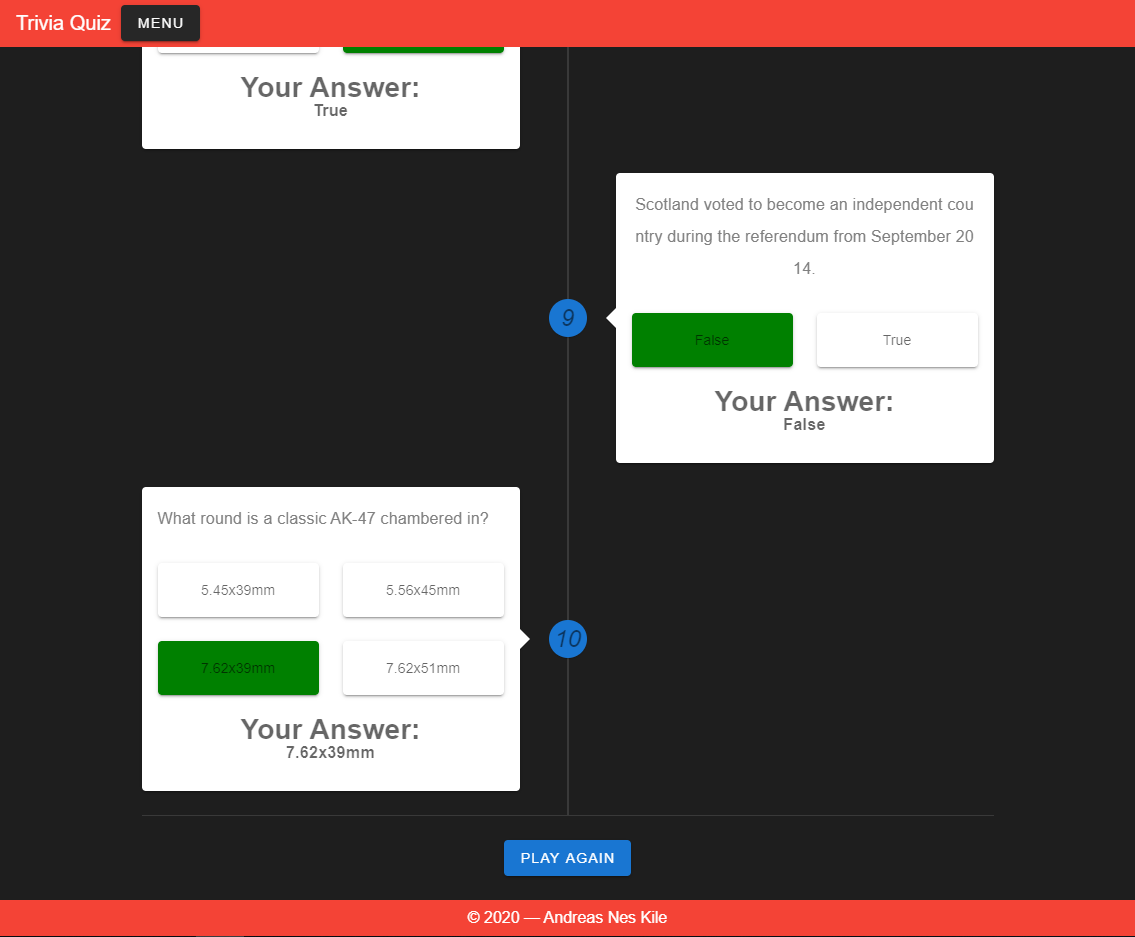
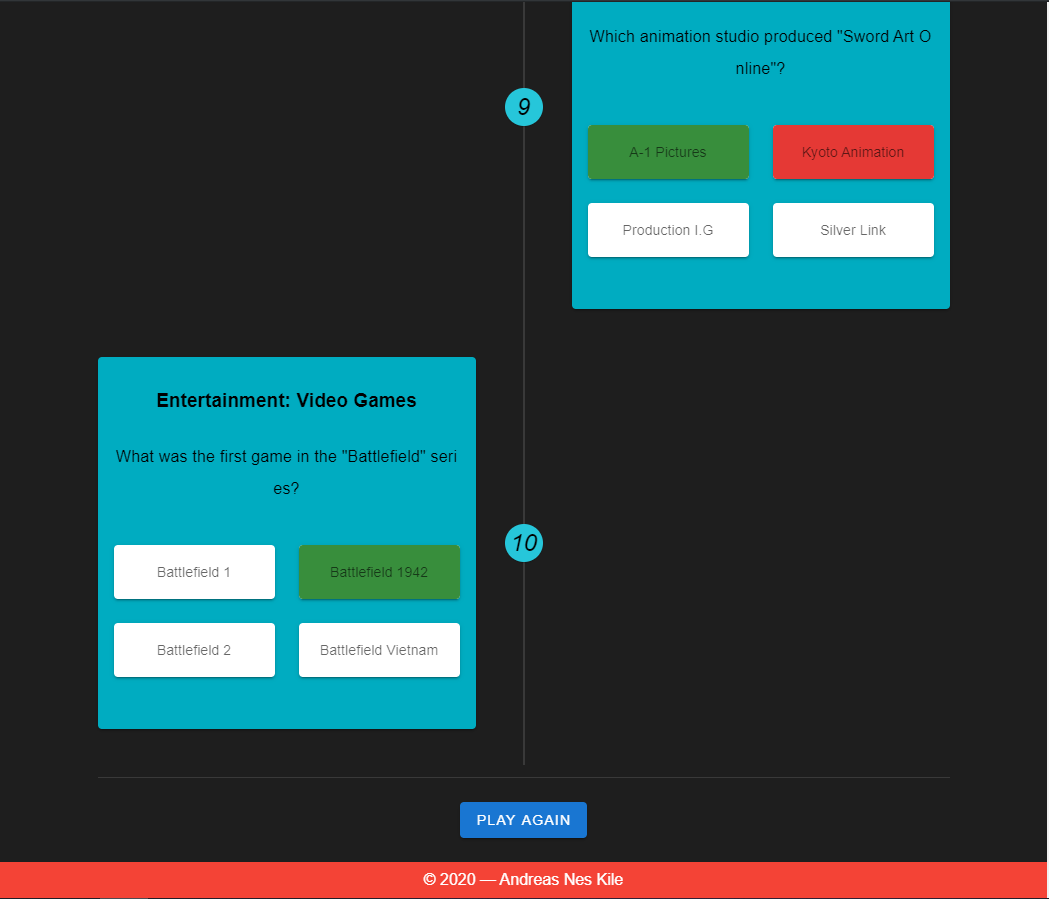
Bug fix, CSS and READ.me changes

diff --git a/src/components/QuizResults.vue b/src/components/QuizResults.vue
@@ -1,39 +1,75 @@
 <template>
-  <v-timeline dark>
-    <v-timeline-item
-      light
-      v-for="(currentQuestion, index) in setAnsweredQuestions"
-      :key="index"
-      fill-dot
-      :icon="(index + 1).toString()"
-    >
-      <v-card class="elevation-2" style="color: grey">
-        <v-card-title style="font-size: 1em" v-html="currentQuestion.question"></v-card-title>
-        <v-card-text>
-          <v-row v-if="currentQuestion.options">
-            <v-col
-              v-for="(option, optionIndex) in currentQuestion.options"
-              :key="optionIndex"
-              xl="6"
-              md="6"
-              l="6"
-              sm="12"
-              xs="12"
-            >
-              <v-card>
-                <v-card-text :class="setCardClass(option, index, optionIndex)" v-html="option"></v-card-text>
+  <v-row>
+    <v-col xl="2" lg="2" md="2" class="hidden-md-and-down"></v-col>
+    <v-col>
+      <v-timeline dark>
+        <v-timeline-item
+          light
+          v-for="(currentQuestion, index) in setAnsweredQuestions"
+          :key="index"
+          fill-dot
+          color="cyan lighten-1"
+          :icon="(index + 1).toString()"
+          icon-color="black"
+          class="result-question-number"
+        >
+          <v-row>
+            <v-col xl="12">
+              <v-card class="elevation-2" color="cyan darken-1" style="color: black">
+                <v-card-title style="font-size: 1em" justify="center">
+                  <v-row>
+                    <v-col>
+                      <h3 v-html="currentQuestion.category"></h3>
+                    </v-col>
+                  </v-row>
+                  <v-row>
+                    <v-col>
+                      <span v-html="currentQuestion.question"></span>
+                    </v-col>
+                  </v-row>
+                </v-card-title>
+                <v-card-text>
+                  <v-row v-if="currentQuestion.options">
+                    <v-col
+                      v-for="(option, optionIndex) in currentQuestion.options"
+                      :key="optionIndex"
+                      xl="6"
+                      md="6"
+                      l="6"
+                      sm="12"
+                      xs="12"
+                    >
+                      <v-card>
+                        <v-card-text
+                          :class="setCardClass(option, currentQuestion, index, optionIndex)"
+                          v-html="option"
+                        ></v-card-text>
+                      </v-card>
+                    </v-col>
+
+                    <!-- Filler -->
+                    <v-col></v-col>
+
+                    <v-col xl="4" lg="7" md="10" justify="center">
+                      <v-alert
+                        v-if="!currentQuestion.didAnswer"
+                        dense
+                        type="warning"
+                      >No answer were given</v-alert>
+                    </v-col>
+
+                    <!-- Filler -->
+                    <v-col></v-col>
+                  </v-row>
+                </v-card-text>
               </v-card>
             </v-col>
-            <v-col>
-              <h1>Your Answer:</h1>
-              <h3 v-html="currentQuestion.selectedAnswer" v-if="currentQuestion.didAnswer"></h3>
-              <h3 v-else>No answer were given</h3>
-            </v-col>
           </v-row>
-        </v-card-text>
-      </v-card>
-    </v-timeline-item>
-  </v-timeline>
+        </v-timeline-item>
+      </v-timeline>
+    </v-col>
+    <v-col xl="2" lg="2" class="hidden-md-and-down"></v-col>
+  </v-row>
 </template>
 
 <script>
@@ -50,21 +86,38 @@ export default {
   },
 
   methods: {
-    setCardClass: function(option, index) {
-      if (option == this.setAnsweredQuestions[index].correctAnswer) {
-        return "card-option";
-      }
+    setCardClass: function(option, currentQuestion, index) {
+      if (option == this.setAnsweredQuestions[index].correctAnswer)
+        return "card-option-correct";
+      if (
+        option != currentQuestion.correctAnswer &&
+        option == currentQuestion.selectedAnswer
+      )
+        return "card-option-wrong";
+
+      // if (
+      //   option.selectedAnswer != this.setAnsweredQuestions[index].correctAnswer
+      // ) {
+      //   return "card-option-wrong";
+      // }
+
+      // if (option.selectedAnswer == option.correctAnswer)
+      //   return "card-option-correct";
     }
   }
 };
 </script>
 
 <style scoped>
-.card-option {
-  background-color: green;
+.card-option-correct {
+  background-color: #388e3c;
 }
 
-.v-icon {
+.card-option-wrong {
+  background-color: #e53935;
+}
+
+.result-question-number {
   color: white;
 }
 </style>

diff --git a/src/components/GameMenu.vue b/src/components/GameMenu.vue
@@ -1,7 +1,8 @@
 <template>
   <v-container class="fill-height" fluid>
     <v-row align="center" justify="center" no-gutters>
-      <v-card class="start-game-card" raised width="80%">
+      <v-card class="start-game-card" raised>
+        <v-alert v-show="invalidNumberOfQuestionsAlertText" color="red">Please pick a valid number!</v-alert>
         <v-card-title class="title justify-center">You want to play a game?</v-card-title>
         <v-card-text>
           <br />
@@ -37,21 +38,29 @@ export default {
   name: "game-menu",
   data() {
     return {
-      numberOfQuestions: 10
+      numberOfQuestions: 10,
+      invalidNumberOfQuestionsAlertText: ""
     };
   },
 
   computed: {
     setNumberOfQuestions: function() {
       return this.numberOfQuestions;
+    },
+    numberOfQuestionsIsValid: function() {
+      return this.numberOfQuestions > 9 && this.numberOfQuestions < 20;
     }
   },
   methods: {
     startQuiz() {
-      this.$router.push({
-        name: "quiz",
-        params: { numberOfQuestions: this.setNumberOfQuestions }
-      });
+      if (this.numberOfQuestionsIsValid) {
+        this.$router.push({
+          name: "quiz",
+          params: { numberOfQuestions: this.setNumberOfQuestions }
+        });
+      } else {
+        this.invalidNumberOfQuestionsAlertText = "Please choose a valid number";
+      }
     }
   }
 };

diff --git a/src/components/QuizQuestion.vue b/src/components/QuizQuestion.vue
@@ -1,7 +1,7 @@
 <template>
   <v-card>
     <v-row>
-      <v-col lg="12">
+      <v-col>
         <h4 v-html="question.category"></h4>
       </v-col>
     </v-row>
@@ -16,7 +16,6 @@
       <v-row>
         <v-col v-for="(answer,index) in answers" :key="index" xl="6" md="6" l="6" sm="12" xs="12">
           <v-card
-            :disabled="!isActive"
             class="quiz-card-container elevation-5 answer-card"
             :id="'answer-option-' + question"
             @click="sendAnswer($event)"
@@ -42,16 +41,15 @@ export default {
       answers: [],
       selectedAnswer: "",
       answerFromUser: {},
-      correctAnswer: "",
-      isActive: true
+      correctAnswer: ""
     };
   },
 
   methods: {
     sendAnswer(event) {
-      this.isActive = false;
       this.answerFromUser = {
         question: this.question.question,
+        category: this.question.category,
         options: this.answers,
         selectedAnswer: event.target.innerText,
         correctAnswer: this.correctAnswer,
@@ -80,7 +78,6 @@ export default {
       ];
       this.answers.sort();
       this.correctAnswer = this.$props.question.correct_answer;
-      this.isActive = true;
     }
   }
 };

diff --git a/src/components/GamePlay.vue b/src/components/GamePlay.vue
@@ -1,4 +1,4 @@
-<template>
+<template v-if="isReady">
   <v-container class="fill height" v-if="questions.length > 0">
     <v-progress-linear striped stream height="40px" :value="countDown * 10"></v-progress-linear>
     <quiz-question v-on:answer="updateGamePlay" :question="questions[currentQuestionIndex]" />
@@ -23,7 +23,8 @@ export default {
       currentQuestionIndex: 0,
       score: 0,
       countDown: 10,
-      answeredQuestions: []
+      answeredQuestions: [],
+      isReady: false
     };
   },
 
@@ -50,6 +51,7 @@ export default {
       if (!this.answeredQuestions[this.currentQuestionIndex]) {
         this.answeredQuestions.push({
           question: this.questions[this.currentQuestionIndex].question,
+          category: this.questions[this.currentQuestionIndex].category,
           options: [
             this.questions[this.currentQuestionIndex].correct_answer,
             ...this.questions[this.currentQuestionIndex].incorrect_answers
@@ -90,6 +92,7 @@ export default {
             );
           });
         }
+        this.isReady = true;
       })
       .catch(error => {
         console.log(error);

diff --git a/src/components/GameOver.vue b/src/components/GameOver.vue
@@ -10,9 +10,9 @@
 
     <v-divider dark></v-divider>
     <br />
-    <v-btn class="primary">
-      <router-link class="router-link white--text" to="quiz">Play again</router-link>
-    </v-btn>
+    <router-link class="router-link white--text" to="/">
+      <v-btn class="primary">Play again</v-btn>
+    </router-link>
   </v-container>
 </template>
 
@@ -24,11 +24,6 @@ export default {
   components: {
     "quiz-results": QuizResults
   },
-  data() {
-    return {
-      questions: []
-    };
-  },
 
   computed: {
     setScore() {
@@ -39,16 +34,6 @@ export default {
     },
     setAnsweredQuestions() {
       return this.$route.params.answeredQuestions;
-    }
-  },
-
-  watch: {
-    answeredQuestions: function(newVal, oldVal) {
-      if (newVal === oldVal) {
-        return;
-      } else {
-        this.questions = this.$props.answeredQuestions;
-      }
     }
   }
 };

diff --git a/src/components/AppNavBar.vue b/src/components/AppNavBar.vue
@@ -1,5 +1,5 @@
 <template>
-  <v-app-bar dark dense app class="red trivia-navbar">
+  <v-app-bar dark dense app class="red trivia-navbar" hide-on-scroll>
     <v-toolbar-title class="hidden-sm-and-down trivia-logo">Trivia Quiz</v-toolbar-title>
     <v-toolbar-items>
       <router-link to="/" class="router-link">

diff --git a/src/router.js b/src/router.js
@@ -11,7 +11,7 @@ export default new Router({
 	routes: [
 		{
 			path: "/",
-			name: "home",
+			name: "menu",
 			component: GameMenu
 		},
 		{

diff --git a/README.md b/README.md
@@ -1,6 +1,8 @@
 # Trivia Quiz
 
-Welcome to the Trivia Quiz. This is a project that I have done in order to learn a little bit more about Vue.js and the component libarry Vuetify.
+Welcome to the Trivia Quiz. This is a project that I have done in order to learn a little bit more about Vue.js and the component library Vuetify.
+
+The questions are fetched from [Open Trivia Database](https://opentdb.com).
 
 In order to install and run the web application, follow the instructions underneath.
 
@@ -40,16 +42,4 @@ To run the project in development mode, simply run following:
 
 ```
 npm run serve
-```
-
-### Compiles and minifies for production
-
-```
-npm run build
-```
-
-### Lints and fixes files
-
-```
-npm run lint
 ```
